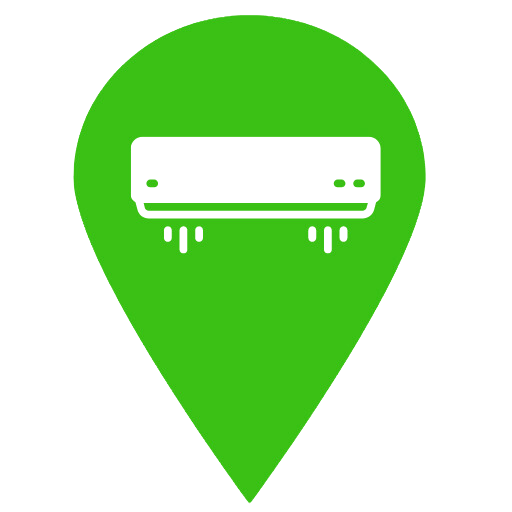
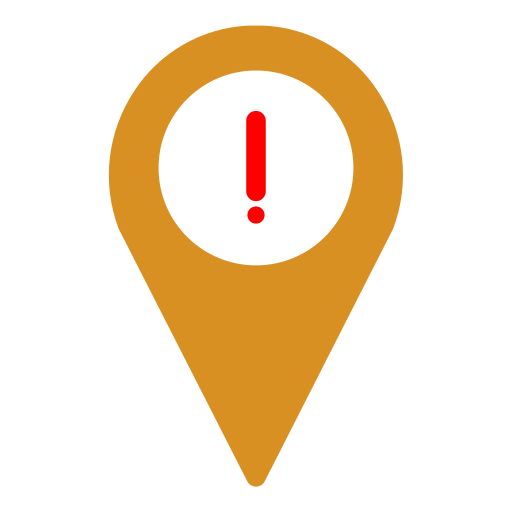
Fix: dashboard maps

diff --git a/resources/views/overview/index.blade.php b/resources/views/overview/index.blade.php
@@ -13,7 +13,7 @@
 <link rel="stylesheet" href="{{ asset('assets/css/maps.css') }}">
 
 <style>
-.page-content{
+.page-content {
     padding: calc(45px + 24px) calc(1px / 2) 45px calc(1px / 2) !important;
 }
 
@@ -38,21 +38,55 @@
         transition: none;
     }
 }
-    .badge-pill {
+.badge-pill {
     padding-right: 0.6em;
     padding-left: 0.6em;
     border-radius: 10rem;
-    }
+}
 
-    .badge-success {
-        color: #fff;
-        background-color: #28a745;
-    }
+.badge-success {
+    color: #fff;
+    background-color: #28a745;
+}
 
-    .badge-danger {
-        color: #fff;
-        background-color: #dc3545;
-    }
+.badge-danger {
+    color: #fff;
+    background-color: #dc3545;
+}
+
+.leaflet-popup-content-wrapper {
+    padding: 0;
+}
+
+.leaflet-popup-content {
+    margin: 0;
+}
+
+.popup-card {
+    background-color: white;
+    padding: 15px;
+    border-radius: 5px;
+    box-shadow: 0 2px 5px rgba(0, 0, 0, 0.15);
+}
+
+.popup-card-header {
+    font-size: 1.2em;
+    font-weight: bold;
+}
+
+.popup-card-body {
+    margin-top: 10px;
+}
+
+.popup-card-body p {
+    margin: 5px 0;
+}
+
+.popup-card-footer {
+    margin-top: 10px;
+    text-align: right;
+}
+
 </style>
 @endpush
 @section('breadcumbs')
@@ -130,7 +164,6 @@
 {{-- Leaflet Legend --}}
 <script type="text/javascript" src="{{ asset('assets/js/leaflet-control/leaflet.legend.js') }}"></script>
 
-
 <script>
     const officon = L.icon({
         iconUrl: `img/location-off.png`,
@@ -148,6 +181,22 @@
         popupAnchor:  [-3, -76] // point from which the popup should open relative to the iconAnchor
     });
 
+    L.Control.MyControl = L.Control.extend({
+        onAdd: function(map) {
+            var el = L.DomUtil.create('div', 'leaflet-bar my-control');
+            el.innerHTML = '<b>Jakarta</b>'; // Customize this line
+            return el;
+        },
+
+        onRemove: function(map) {
+            // Nothing to do here
+        }
+    });
+
+    L.control.myControl = function(opts) {
+        return new L.Control.MyControl(opts);
+    }
+
     var markers = []
     var parentLocation = []
     var subLocation = []
@@ -156,6 +205,8 @@
     var map;
 
     $(document).ready(function() {
+        const incidents = @json($incidents);
+
         if(navigator.geolocation) {
             navigator.geolocation.getCurrentPosition(position => {
                 localCoord = position.coords;
@@ -209,30 +260,9 @@
                     fullscreenControl: false,
                     layers: [topography, sattelite, grayscale, streets]
                 });
-                // Start Configuration Control
 
                 // Add change layer control
                 L.control.layers(basemaps).addTo(map);
-
-                // Add legend control
-                // const legend = L.control.Legend({
-                //     position: "bottomright",
-                //     collapsed: false,
-                //     title: 'Information',
-                //     symbolWidth: 26,
-                //     opacity: 0.8,
-                //     column: 1,
-                //     legends: [{
-                //         label: "STATUS AC ON",
-                //         type: "image",
-                //         url: "img/location-on.png",
-                //     }, {
-                //         label: "STATUS AC OFF",
-                //         type: "image",
-                //         url: "img/location-off.png"
-                //     }]
-                // })
-                // .addTo(map);
 
                 // Add fullscreen control
                 L.control.fullscreen({
@@ -253,41 +283,115 @@
                     position: 'topright'
                 }).addTo(map);
 
-                L.control.myControl = function(opts) {
-                    return new L.Control.MyControl(opts);
-                }
-
                 L.control.myControl({
                     position: 'topleft'
                 }).addTo(map);
-                // End Search Control
 
-                // Start Info Control
-                L.Control.Info = L.Control.extend({
-                    onAdd: function(map) {
-                        var el = L.DomUtil.create('div', 'leaflet-bar my-control info-control');
-                        el.innerHTML += `<span id="countParentLocation">0</span> Region | <span id="countSubLocation">0</span> Office`;
+                // Add markers for incidents
+                incidents.forEach(incident => {
+                    let popupContent = `
+                        <div class="popup-card">
+                            <div class="popup-card-header">${incident.incident_number}</div>
+                            <div class="popup-card-body">
+                                <img src="{{ asset('${incident.image}') }}" width="50" alt="" class="d-block mx-auto">
+                                <p>Status: ${incident.status}</p>
+                                <hr class="my-2">
+                                <p>Description:</p>
+                                <p>${incident.description}</p>
+                            </div>
+                            <div class="popup-card-footer">
+                    `;
 
-                        return el;
-                    },
-
-                    onRemove: function(map) {
-                        // Nothing to do here
+                    if (incident.status === 'requested') {
+                        popupContent += `<button class="btn btn-success accept-btn" data-id="${incident.id}" data-url="/queue/${incident.id}/accept">Accept</button>`;
+                    } else if (incident.status === 'processed') {
+                        popupContent += `<button class="btn btn-warning complete-btn" data-id="${incident.id}" data-url="/incidents/${incident.id}/complete">Complete</button>`;
                     }
+
+                    popupContent += `</div></div>`;
+
+                    L.marker([incident.latitude, incident.longitude], {
+                        icon: incident.status !== 'completed' ? onicon : officon
+                    }).addTo(map)
+                    .bindPopup(popupContent);
                 });
 
-                L.control.Info = function(opts) {
-                    return new L.Control.Info(opts);
-                }
+                // Event listeners for buttons
+                map.on('popupopen', function(e) {
+                    const acceptButtons = document.querySelectorAll('.accept-btn');
+                    acceptButtons.forEach(button => {
+                        button.addEventListener('click', function () {
+                            const incidentId = this.getAttribute('data-id');
+                            const url = this.getAttribute('data-url');
+                            const token = document.querySelector('meta[name="csrf-token"]').getAttribute('content');
 
-                L.control.Info({
-                    position: 'bottomleft'
-                }).addTo(map);
-                // End Info Control
+                            fetch(`${url}`, {
+                                method: 'POST',
+                                headers: {
+                                    'Content-Type': 'application/json',
+                                    'X-CSRF-TOKEN': token
+                                },
+                                body: JSON.stringify({})
+                            })
+                            .then(response => response.json())
+                            .then(data => {
+                                if (data.message === 'Incident accepted successfully') {
+                                    Swal.fire(
+                                        'Accepted!',
+                                        'The incident has been accepted.',
+                                        'success'
+                                    ).then(() => {
+                                        location.reload();
+                                    });
+                                } else {
+                                    Swal.fire(
+                                        'Error!',
+                                        data.message,
+                                        'error'
+                                    )
+                                }
+                            })
+                            .catch(error => console.error('Error:', error));
+                        });
+                    });
 
-                // End Configure Control
+                    const completeButtons = document.querySelectorAll('.complete-btn');
+                    completeButtons.forEach(button => {
+                        button.addEventListener('click', function () {
+                            const incidentId = this.getAttribute('data-id');
+                            const url = this.getAttribute('data-url');
+                            const token = document.querySelector('meta[name="csrf-token"]').getAttribute('content');
 
-                 // get location
+                            fetch(`${url}`, {
+                                method: 'POST',
+                                headers: {
+                                    'Content-Type': 'application/json',
+                                    'X-CSRF-TOKEN': token
+                                },
+                                body: JSON.stringify({})
+                            })
+                            .then(response => response.json())
+                            .then(data => {
+                                if (data.message === 'Incident completed successfully') {
+                                    Swal.fire(
+                                        'Completed!',
+                                        'The incident has been completed.',
+                                        'success'
+                                    ).then(() => {
+                                        location.reload();
+                                    });
+                                } else {
+                                    Swal.fire(
+                                        'Error!',
+                                        data.message,
+                                        'error'
+                                    )
+                                }
+                            })
+                            .catch(error => console.error('Error:', error));
+                        });
+                    });
+                });
             });
         }
     });

diff --git a/routes/web.php b/routes/web.php
@@ -41,18 +41,21 @@ Route::middleware('auth:web')->group(function () {
 
         if ($user->role !== 'admin') {
             $baseQuery->where('responder_id', $user->id);
-            $data['instance'] = InstanceDetail::where('id', $user->instance_detail_id)->first();
+            $data['instance'] = InstanceDetail::where('id', $user->instance_detail_id)->get();
         }
 
         $data['all_incident'] = $baseQuery->count();
 
+        $incidentQuery = clone $baseQuery;
         $queueQuery = clone $baseQuery;
         $processedQuery = clone $baseQuery;
         $completedQuery = clone $baseQuery;
 
+        $data['incidents'] = $incidentQuery->where('status', '!=', 'completed')->get();
         $data['queue_incident'] = $queueQuery->where('status', 'requested')->count();
         $data['processed_incident'] = $processedQuery->where('status', 'processed')->count();
         $data['completed_incident'] = $completedQuery->where('status', 'completed')->count();
+
         return view('overview.index', $data);
     })->name('overview');
 

diff --git a/resources/views/incidents/index.blade.php b/resources/views/incidents/index.blade.php
@@ -20,6 +20,7 @@
                             <tr>
                                 <th width="5%">No</th>
                                 <th>Datetime</th>
+                                <th>Image</th>
                                 <th>Incident Number</th>
                                 <th>Caller</th>
                                 <th>Responder</th>
@@ -34,6 +35,7 @@
                             <tr>
                                 <td>{{ $loop->iteration }}</td>
                                 <td>{{ $incident->created_at->format('d-m-Y H:i:s') }}</td>
+                                <td><img src="{{ asset($incident->image) }}" width="50" alt="" class="d-block mx-auto" style="border-radius: 50%;"></td>
                                 <td>{{ $incident->incident_number }}</td>
                                 <td>{{ $incident->caller->username }}</td>
                                 <td>{{ $incident->responder->username ?? 'Unassigned' }}</td>

diff --git a/resources/views/queue/index.blade.php b/resources/views/queue/index.blade.php
@@ -20,6 +20,7 @@
                             <tr>
                                 <th width="5%">No</th>
                                 <th>Datetime</th>
+                                <th>Image</th>
                                 <th>Incident Number</th>
                                 <th>Caller</th>
                                 <th>Responder</th>
@@ -34,6 +35,7 @@
                             <tr>
                                 <td>{{ $loop->iteration }}</td>
                                 <td>{{ $incident->created_at->format('d-m-Y H:i:s') }}</td>
+                                <td><img src="{{ asset($incident->image) }}" width="50" alt="" class="d-block mx-auto" style="border-radius: 50%;"></td>
                                 <td>{{ $incident->incident_number }}</td>
                                 <td>{{ $incident->caller->username }}</td>
                                 <td>{{ $incident->responder->username ?? 'Unassigned' }}</td>
